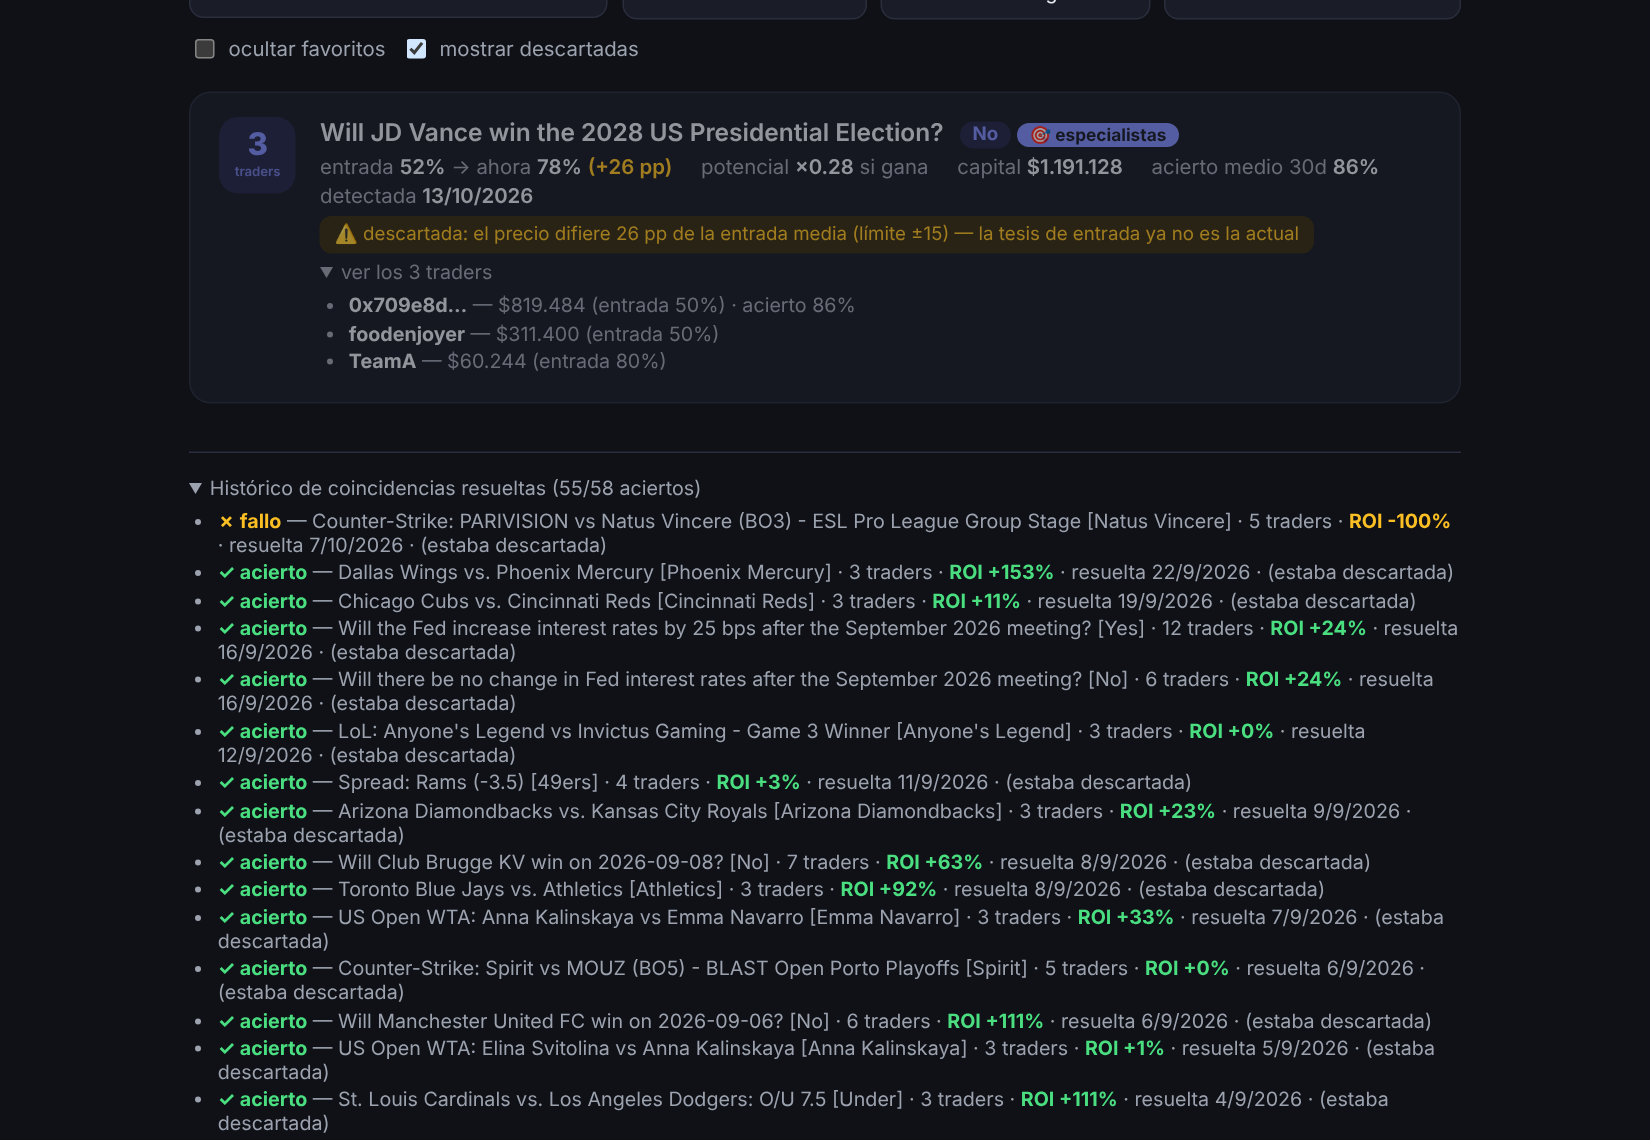
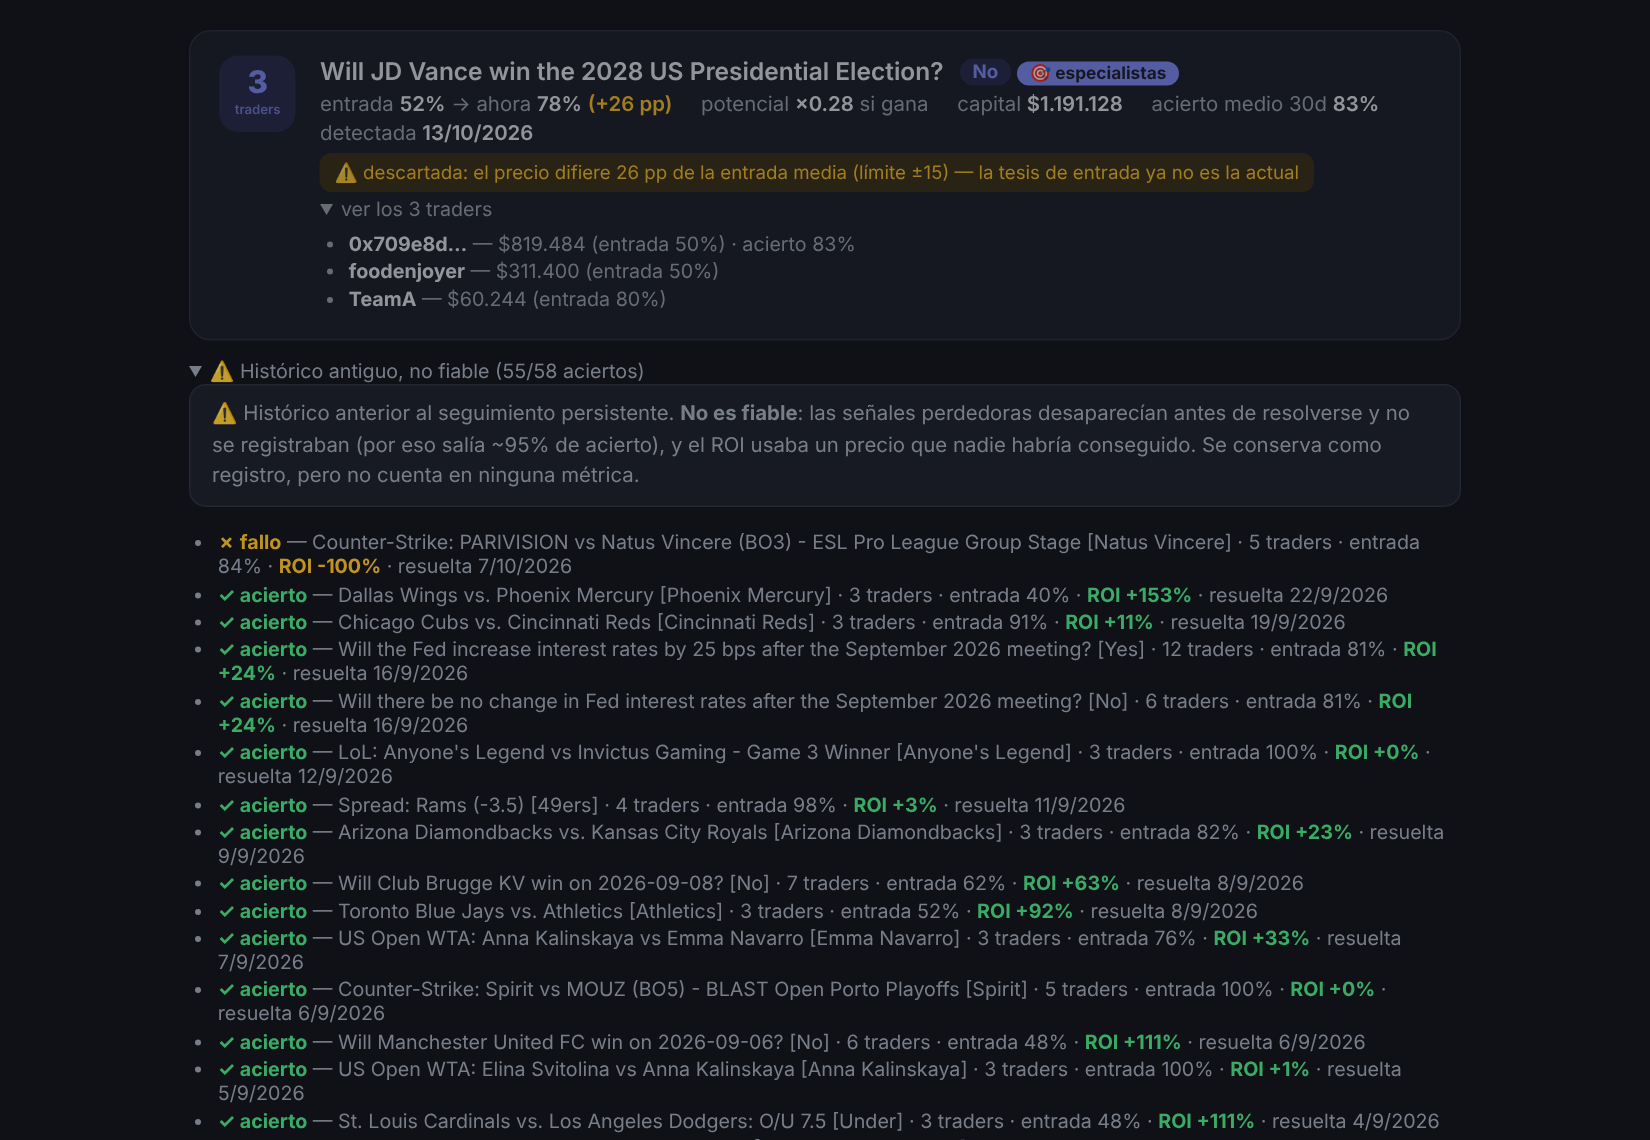
Solo consenso amplio por Telegram por defecto (ALERT_TIERS); resultados reales del backtest
El replay de jul-oct 2026 dio ROI -3% a las alertas (212 resueltas,
acierto 55,7% frente al 56,1% implícito) y -6% a las de especialistas.
Activar su envío habría sido encender una fuente perdedora: se alertan
en sombra y su ROI se sigue midiendo en vivo.

Claude-Session: https://claude.ai/code/session_01FzhK9otPzbuMmWtE9RQ1AC

Changed region(s): [[0.1236, 0.0307, 0.8655, 1.0], [0.4636, 0.2456, 0.5255, 0.2763], [0.8036, 0.0614, 0.8345, 0.0921]]

diff --git a/docs/index.html b/docs/index.html
@@ -367,7 +367,9 @@ function renderSignals() {
            target="_blank" rel="noopener">${esc(s.title)}</a>
         <span class="pastilla">${esc(s.outcome)}</span>
         ${s.tier === 'especialistas' ? `<span class="esp-badge" title="menos de ${datos.params.minUsers ?? 5} traders, pero con acierto 30d probado alto: señal temprana de especialistas, no simple coincidencia numérica">🎯 especialistas</span>` : ''}
-        ${s.alerted ? `<span class="alert-badge" title="Alertada el ${new Date(s.alertedAt).toLocaleString('es-ES')}; su ROI se medirá con esta entrada">🔔 alertada a ${pct(s.entryPrice)}</span>` : ''}
+        ${s.alerted ? (s.sent === false
+          ? `<span class="pastilla" title="Alertada en sombra el ${new Date(s.alertedAt).toLocaleString('es-ES')}: no se envió por Telegram (nivel no activado o fuente silenciada), pero su ROI se mide con esta entrada">👻 en sombra a ${pct(s.entryPrice)}</span>`
+          : `<span class="alert-badge" title="Alertada el ${new Date(s.alertedAt).toLocaleString('es-ES')}; su ROI se medirá con esta entrada">🔔 alertada a ${pct(s.entryPrice)}</span>`) : ''}
       </div>
       <div class="datos">
         <span>entrada <b>${pct(s.avgEntryPrice)}</b> → ahora <b>${pct(s.curPrice)}</b>
@@ -465,7 +467,7 @@ function filaHistorial(h, campoRoi = 'roi') {
   const entrada = h.entryPrice != null && campoRoi === 'roi' ? ` · entrada ${pct(h.entryPrice)}` : '';
   return `<li>${estado}
      — ${esc(h.title)} [${esc(h.outcome)}]${h.source === 'whale' ? '' : ` · ${h.numTraders} traders`}${h.tier === 'especialistas' ? ' 🎯' : ''}${entrada}${r != null ? ` · <b class="${r >= 0 ? 'acierto' : 'fallo'}">ROI ${signo(r)}</b>` : ''}
-     · resuelta ${new Date(h.resolvedAt).toLocaleDateString('es-ES')}${h.sent === false ? ' · (en sombra: fuente silenciada)' : ''}</li>`;
+     · resuelta ${new Date(h.resolvedAt).toLocaleDateString('es-ES')}${h.sent === false ? ' · (en sombra: no enviada)' : ''}</li>`;
 }
 
 function pintaHistorial(hs, detId, listId, titulo, campoRoi = 'roi') {

diff --git a/scanner.py b/scanner.py
@@ -63,6 +63,13 @@ PAPER_STAKE = float(os.getenv("PAPER_STAKE", "100"))
 # filtro opcional por ventaja estimada (edgeEst, sin validar aun): si se
 # define, solo se alertan senales con edgeEst >= MIN_EDGE. Por defecto no filtra.
 MIN_EDGE = float(os.environ["MIN_EDGE"]) if os.getenv("MIN_EDGE") else None
+# niveles que se ENVIAN por Telegram. Los demas se alertan "en sombra": se
+# registran con su precio de entrada y se mide su ROI, pero no se envian.
+# Por defecto solo consenso amplio: el backtest por replay (jul-oct 2026) dio
+# a especialistas ROI -6% sobre 194 alertas resueltas (acierto 55% con un
+# precio que ya implicaba 57%). Si el historico en vivo les da la razon, se
+# activan con ALERT_TIERS=amplio,especialistas.
+ALERT_TIERS = {t.strip() for t in os.getenv("ALERT_TIERS", "amplio").split(",") if t.strip()}
 # un trader "entro hace poco" si su ultima compra en ese mercado es de las
 # ultimas RECENT_ENTRY_HOURS horas (vs. posiciones viejas que solo siguen ahi)
 RECENT_ENTRY_HOURS = 24
@@ -327,21 +334,22 @@ def track_signals(tracked, signals, now):
         if t["alerted"]:
             s["alertedAt"] = t["alertedAt"]
             s["entryPrice"] = t["entryPrice"]
+            s["sent"] = t.get("sent")
     return nuevos
 
 
 def mark_alerted(t, s, price, source, now, sent):
     """Registra la alerta de una senal: el precio al que entraria el seguidor
     en ese momento es la base de su ROI. `sent` dice si de verdad salio por
-    Telegram (un gate silenciado alerta 'en sombra' para poder seguir midiendo
-    y reactivarse con datos)."""
+    Telegram: un nivel fuera de ALERT_TIERS o un gate silenciado alerta 'en
+    sombra', para seguir midiendo y poder reactivarse con datos."""
     t.update({"alerted": True, "alertedAt": now, "alertPrice": s["curPrice"],
               "entryPrice": price, "entrySource": source, "sent": sent,
               "tierAtAlert": s.get("tier"), "numTradersAtAlert": s["numTraders"],
               "edgeEst": s.get("edgeEst"), "pEst": s.get("pEst"),
               "recentEntrants": s.get("recentEntrants"),
               "lastEntryTs": s.get("lastEntryTs")})
-    s.update({"alerted": True, "alertedAt": now, "entryPrice": price})
+    s.update({"alerted": True, "alertedAt": now, "entryPrice": price, "sent": sent})
 
 
 def resolve_tracked(tracked, resolutions, now, active_ids=()):
@@ -1036,7 +1044,8 @@ def main():
         if not quiere:
             continue
         price, source = entry_price(s.get("asset"), s["curPrice"])
-        sent = paga("coincidencia") and paga(f"coincidencia:{s.get('tier')}")
+        sent = (s.get("tier") in ALERT_TIERS and paga("coincidencia")
+                and paga(f"coincidencia:{s.get('tier')}"))
         mark_alerted(t, s, price, source, now, sent)
         if sent:
             alerts.append(s)
@@ -1090,7 +1099,8 @@ def main():
                    "maxPositionsPerTrader": MAX_POSITIONS_PER_TRADER,
                    "whaleMinUsd": WHALE_MIN_USD, "maxAlertPrice": MAX_ALERT_PRICE,
                    "entryCost": ENTRY_COST, "paperStake": PAPER_STAKE,
-                   "minEdge": MIN_EDGE, "sourceMinSample": SOURCE_MIN_SAMPLE},
+                   "minEdge": MIN_EDGE, "sourceMinSample": SOURCE_MIN_SAMPLE,
+                   "alertTiers": sorted(ALERT_TIERS)},
         "migratedAt": doc.get("migratedAt"),
         "signals": signals,
         "tracked": tracked,
@@ -1121,7 +1131,7 @@ def main():
     bots = len(positions_by_trader) - len(scannable)
     sombra = sum(1 for s in signals if s.get("alertedAt") == now) - len(alerts)
     print(f"{len(signals)} senales ({stale_count} stale), {len(nuevos)} nuevas, "
-          f"{len(alerts)} alertadas{f' (+{sombra} en sombra por gate)' if sombra else ''} | "
+          f"{len(alerts)} alertadas{f' (+{sombra} en sombra)' if sombra else ''} | "
           f"{len(tracked)} en seguimiento | {len(new_whales)}/{detected} whales "
           f"con historial ganador | {bots} wallets excluidos por bot | "
           f"{len(resolved)} senales y {len(resolved_wh)} whales resueltas")

diff --git a/tests/test_main.py b/tests/test_main.py
@@ -90,10 +90,20 @@ def test_full_lifecycle_on_real_state():
         assert "0xB:1" not in d["tracked"]
         assert len(sent) == 1 and "Mercado 0xA" in sent[0] and "entrada real 0.47" in sent[0]
 
-        # escaneo 2: misma senal -> NO se re-alerta
+        # escaneo 2: misma senal -> NO se re-alerta; y 3 especialistas nuevos
+        # en 0xE se alertan EN SOMBRA (nivel fuera de ALERT_TIERS por defecto)
+        for w in WALLETS[:3]:
+            api.positions[w].append(position("0xE", 0, 2000, 0.4, avg=0.38))
+        scanner_tracks = json.loads(path.read_text(encoding="utf-8"))
+        for w in WALLETS[:3]:  # historial probado alto -> especialistas
+            scanner_tracks["trackRecords"][w] = {"wins": 9, "losses": 1, "net": 1.0,
+                                                 "at": 4102444800}
+        path.write_text(json.dumps(scanner_tracks), encoding="utf-8")
         sent.clear()
         d = run_scan(api, path, sent)
         assert sent == [] and d["tracked"]["0xA:0"]["entryPrice"] == 0.47
+        e = d["tracked"]["0xE:0"]
+        assert e["tier"] == "especialistas" and e["alerted"] and e["sent"] is False
 
         # escaneo 3: va perdiendo, sus posiciones bajan de $500 y la senal
         # DESAPARECE. Antes eso borraba la perdida del historico.

diff --git a/README.md b/README.md
@@ -13,7 +13,7 @@ para saber, con datos y no con intuición, si seguirlas da dinero.
 
 📊 **Web en vivo: [edulabrador.github.io/polymarket-smart-money](https://edulabrador.github.io/polymarket-smart-money/)**
 
-![Pestaña principal de la web: métricas, ROI por fuente y filtros](docs/img/web-coincidencias.png)
+![Pestaña principal: alertas en seguimiento, ROI por alerta y resultado del backtest](docs/img/web-coincidencias.png)
 
 > ⚠ Herramienta de análisis de datos públicos. **No apuesta, no ejecuta órdenes y no
 > es consejo financiero.** Lee la sección [Limitaciones](#-limitaciones-y-riesgos)
@@ -60,7 +60,9 @@ pagan se silencian solas.
 
 ## 📈 Resultados: qué se sabe y qué no
 
-> **Estado honesto (octubre de 2026): la rentabilidad todavía no está demostrada.**
+> **Estado honesto (octubre de 2026): con las reglas actuales, seguir las alertas NO ha
+> sido rentable.** El backtest por replay de julio a octubre da un ROI de **−3 %** por
+> alerta: los top traders aciertan casi exactamente lo que ya dice el precio.
 
 Hasta el 14 de octubre de 2026 la web mostraba un **95 % de acierto y +40 % de ROI**.
 Una auditoría del código y de las 10.900 versiones guardadas de `signals.json` mostró
@@ -78,6 +80,38 @@ que esas cifras estaban **infladas por un sesgo de supervivencia**:
 Todo eso está corregido (ver [Cómo se mide la rentabilidad](#-cómo-se-mide-la-rentabilidad)).
 El histórico antiguo se conserva marcado como `legacy`, visible aparte en la web, y
 **no cuenta en ninguna métrica**.
+
+### Backtest por replay (15-07-2026 a 14-10-2026)
+
+Reglas actuales aplicadas a las 10.920 versiones guardadas; resultado según el oráculo
+de gamma; entrada = precio guardado + 1 céntimo. 383 señales, 356 resueltas, 27 pendientes.
+
+| Grupo | Resueltas | Acierto | El precio implicaba | ROI medio | IC95 | Veredicto |
+|---|---:|---:|---:|---:|---|---|
+| **Todas las alertas** | 212 | 55,7 % | 56,1 % | **−3,2 %** | −16 % a +10 % | pierde |
+| Alertas, entrando 5-10 min tarde | 212 | 55,7 % | 56,1 % | −3,3 % | −22 % a +15 % | pierde |
+| 🎯 Especialistas (3-4 traders) | 194 | 55,2 % | 56,7 % | **−6,1 %** | −19 % a +7 % | pierde |
+| 👥 Consenso amplio (5 o más) | 18 | 61,1 % | 49,0 % | +29 % | −39 % a +97 % | sin muestra |
+| Todas las detectadas | 356 | 68,8 % | 67,4 % | −2,6 % | −11 % a +6 % | pierde |
+
+Cartera simulada: 212 apuestas de 100 $ → **−669 $**, con una caída máxima de 1.996 $.
+Sin ningún coste de entrada el ROI seguiría en −1,2 %.
+
+Lectura:
+
+- **No hay ventaja medible.** Coincidir con los top traders acierta lo mismo que el
+  precio de mercado. Su beneficio en el leaderboard no se traslada a quien les copia
+  minutos u horas después.
+- **Por eso las alertas de especialistas no se envían por defecto** (`ALERT_TIERS=amplio`):
+  se registran en sombra y se sigue midiendo su ROI en vivo.
+- **El consenso amplio da +29 %, pero con 18 casos** el intervalo va de −39 % a +97 %. Es
+  compatible con no tener ninguna ventaja. Es lo único que se sigue enviando, y el
+  histórico en vivo dirá si se sostiene.
+- Cuidado con buscar el subgrupo que "sí funciona" en estos mismos datos: con suficientes
+  cortes alguno sale positivo por azar. Cualquier filtro nuevo debe validarse en datos
+  posteriores.
+
+### Dos fuentes de verdad
 
 Desde la corrección hay dos fuentes de verdad, ambas en la web:
 
@@ -385,7 +419,7 @@ Lee `signals.json` y `backtest.json` y se adapta a tema claro/oscuro y a móvil.
 - Históricos: alertas resueltas; detectadas no alertadas (investigación); e histórico
   antiguo, marcado como no fiable.
 
-![Detalle de una señal de especialistas y el histórico de coincidencias resueltas](docs/img/web-senal.png)
+![Detalle de una señal descartada y el histórico antiguo, marcado como no fiable](docs/img/web-senal.png)
 
 **🐋 Compras whale:** compras grandes filtradas con el PnL y acierto del comprador, y el
 histórico de whales resueltas con ROI de seguidor.
@@ -400,16 +434,18 @@ histórico de whales resueltas con ROI de seguidor.
 
 **Telegram solo avisa de coincidencias.** Recibirás:
 
-- 🚨 Alertas nuevas (frescas y con precio < 0,90), de **los dos niveles**: consenso amplio
-  y 🎯 especialistas. Incluyen el precio de entrada real, las entradas recientes y la
-  ventaja estimada.
+- 🚨 Alertas nuevas (frescas y con precio < 0,90) de los niveles de `ALERT_TIERS`. Por
+  defecto **solo consenso amplio**: el backtest dio ROI negativo a los especialistas, que
+  se alertan en sombra (registradas y medidas, sin enviar). Para recibirlas también:
+  `ALERT_TIERS=amplio,especialistas`. Incluyen el precio de entrada real, las entradas
+  recientes y la ventaja estimada.
 - 🏁 La resolución de **las alertas que recibiste**, con su ROI. Las señales que nunca se
   te avisaron ya no generan mensajes de resolución.
 - 📊 El hito de muestra suficiente (20 resueltas) de cada grupo, con IC95 y veredicto.
 
 **Varios destinatarios:** `TELEGRAM_CHAT_ID` admite varios ids separados por comas. Para
-umbrales distintos por persona usa `TELEGRAM_RECIPIENTS` (JSON). Sin `minUsers` recibes
-todas las alertas; con `minUsers: 5` solo las de consenso amplio:
+umbrales distintos por persona usa `TELEGRAM_RECIPIENTS` (JSON). `minUsers` filtra por
+número de traders dentro de las alertas que se envían:
 
 ```json
 [
@@ -438,6 +474,7 @@ producción, añádelas al bloque `env:` de `.github/workflows/scan.yml`.
 | `MAX_ALERT_PRICE` | `0.9` | Precio máximo para alertar (fuera casi-certezas) |
 | `ENTRY_COST` | `0.01` | Coste de entrada (spread + deslizamiento) cuando no hay libro |
 | `PAPER_STAKE` | `100` | Apuesta de la cartera simulada y tamaño con que se lee el libro |
+| `ALERT_TIERS` | `amplio` | Niveles que se envían por Telegram; el resto se alerta en sombra |
 | `MIN_EDGE` | sin definir | Si se define, solo alerta señales con `edgeEst ≥ MIN_EDGE` |
 | `SOURCE_MIN_SAMPLE` | `20` | Resueltas necesarias para juzgar una fuente |
 | `WHALE_MIN_USD` | `50000` | Importe mínimo de una compra whale |
@@ -548,8 +585,8 @@ Todas públicas y sin autenticación (detalle en [NOTES.md](NOTES.md)):
 
 ## ⚠ Limitaciones y riesgos
 
-- **Muestra.** La rentabilidad no se puede afirmar hasta que haya muestra suficiente y
-  el IC95 lo respalde. Mercados del mismo evento no son independientes, así que el IC
+- **Sin ventaja demostrada.** El backtest da ROI negativo con las reglas actuales. El
+  histórico en vivo solo cambiará esa conclusión si acumula muestra y el IC95 lo respalda. Mercados del mismo evento no son independientes, así que el IC
   puede ser algo optimista.
 - **Latencia.** Hasta 5 minutos entre que se forma la señal y la alerta, más lo que
   tardes tú. En partidos en directo el precio se mueve rápido: la variante "con retraso"
